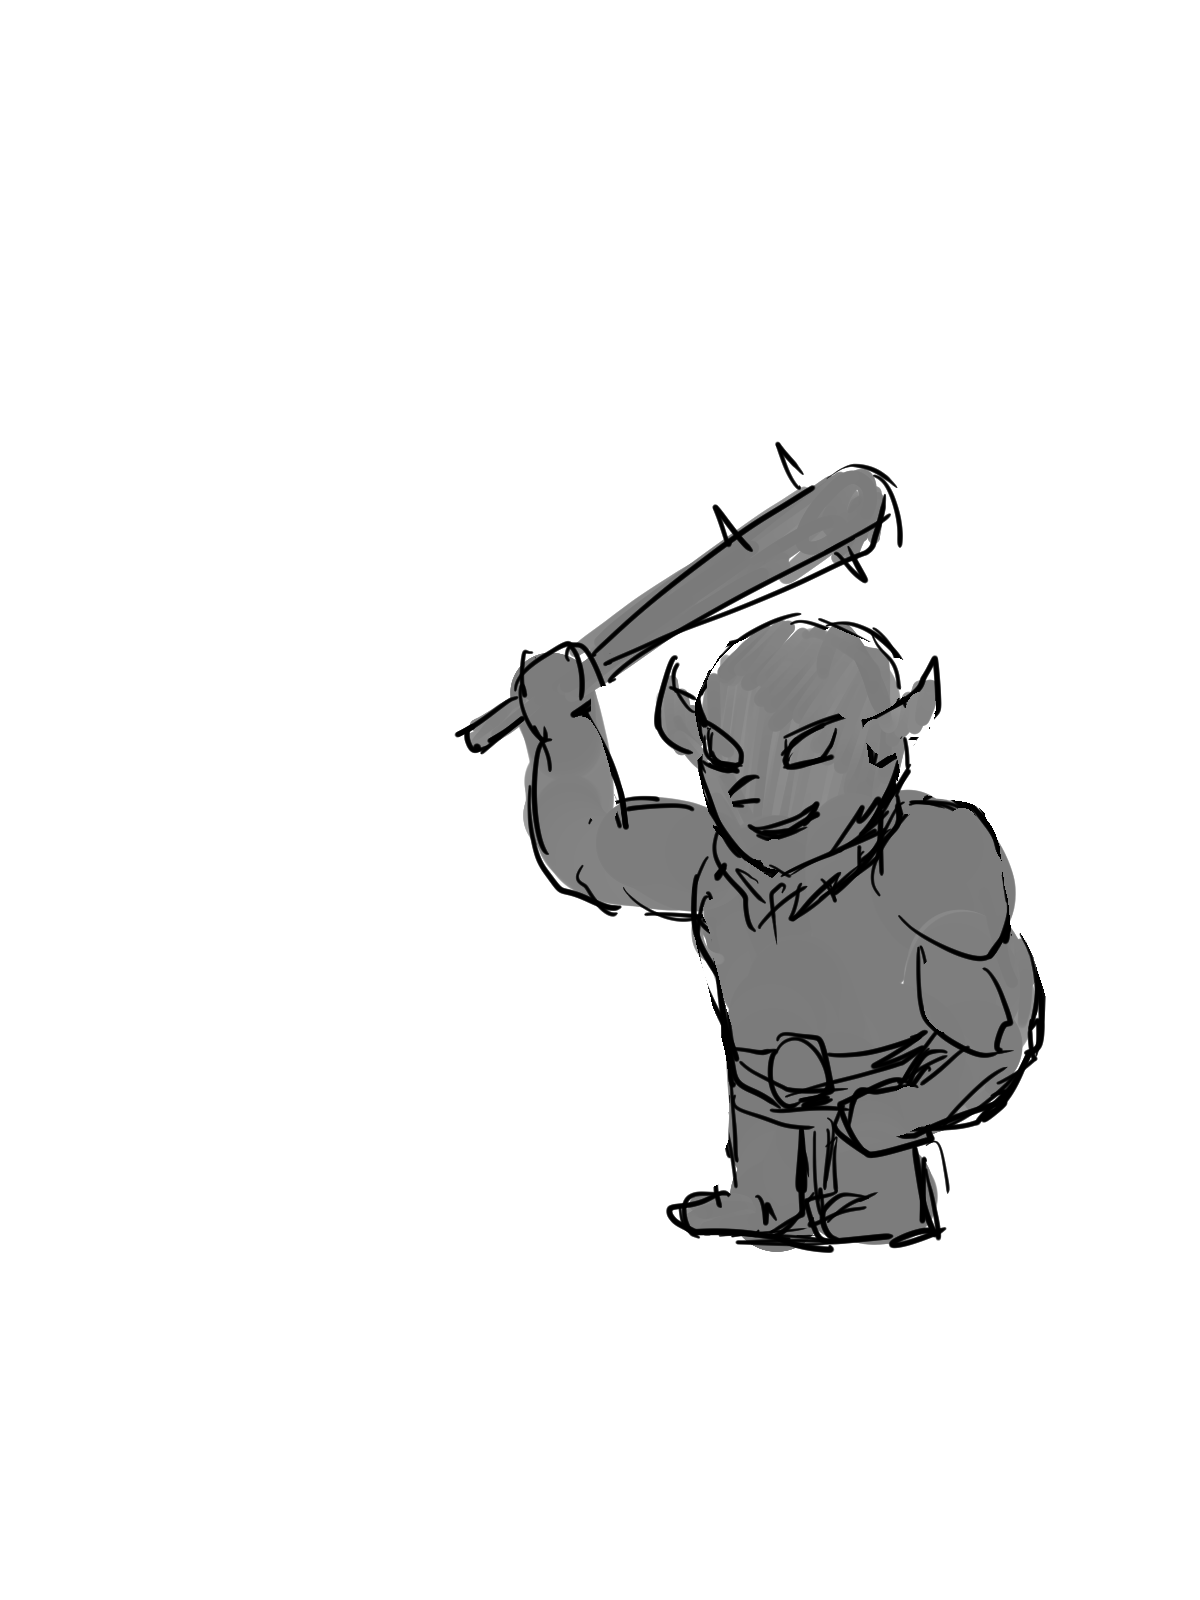
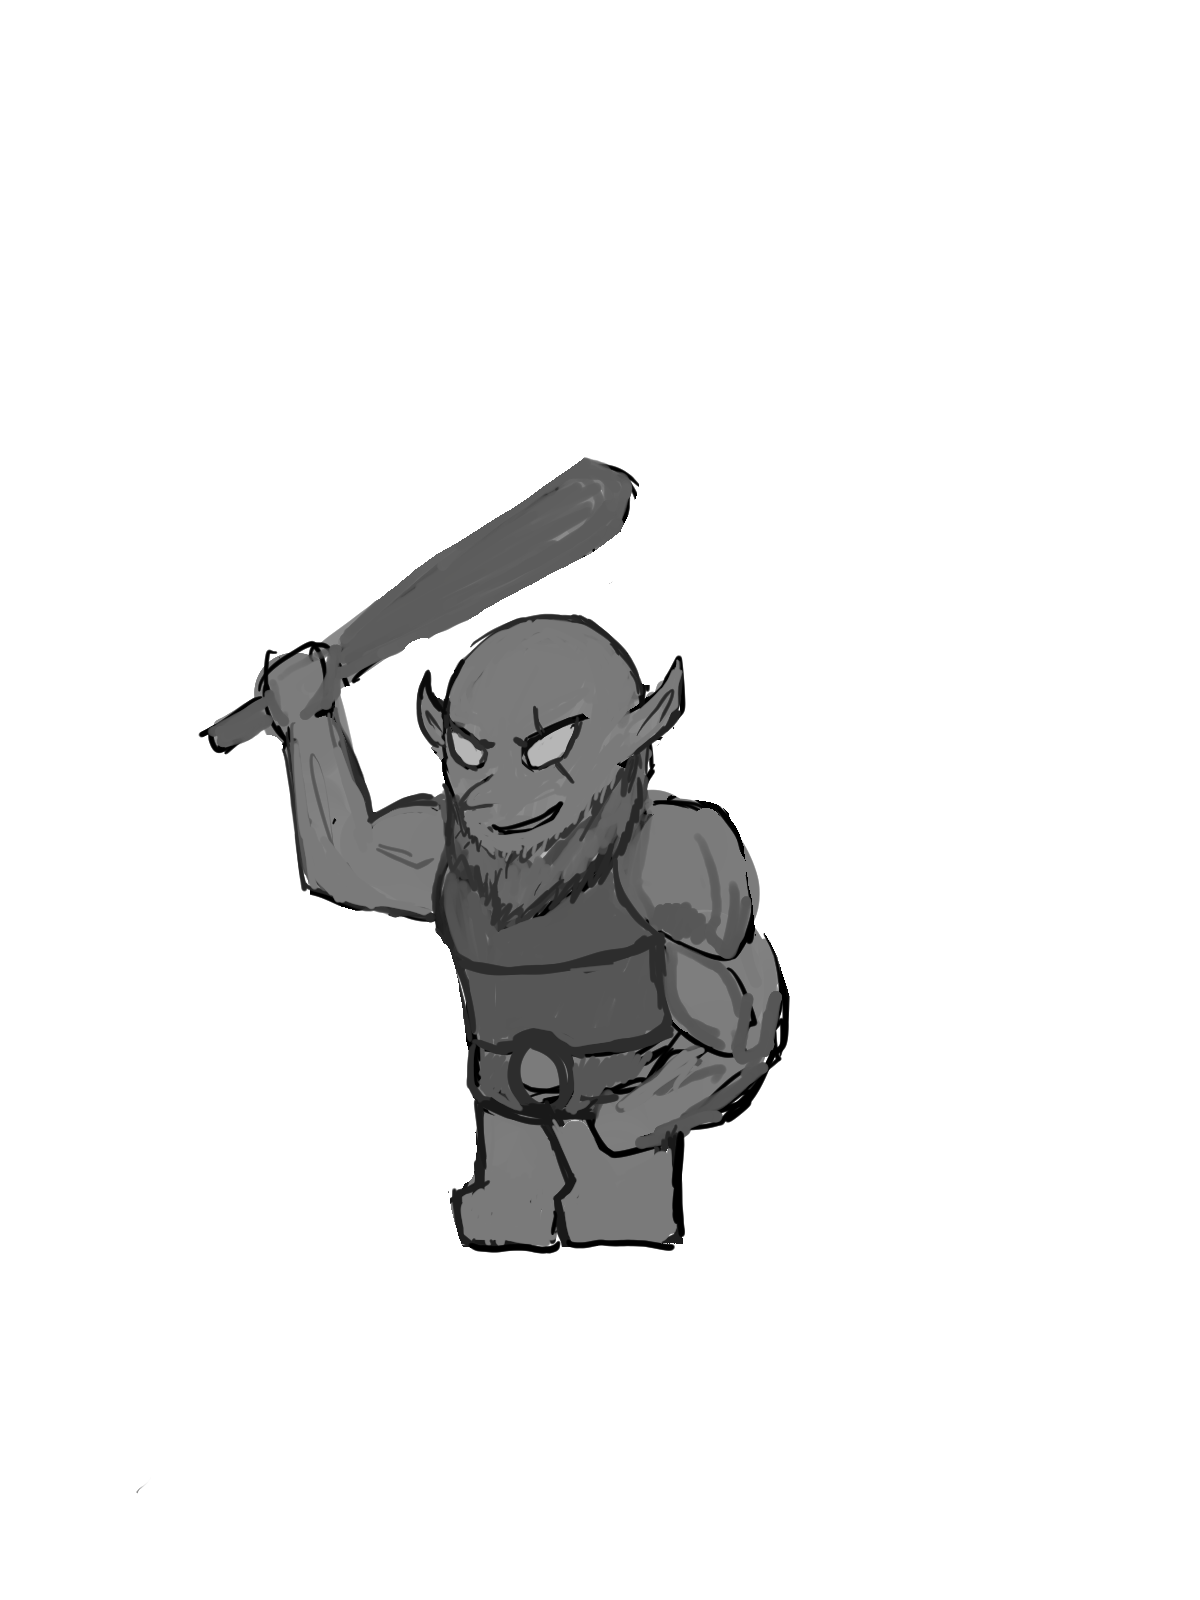
new sprites, disable trap spawn when queen appear

Changed region(s): [[0.1542, 0.2812, 0.8942, 0.7812]]

diff --git a/src/KingMoveManager.cpp b/src/KingMoveManager.cpp
@@ -63,6 +63,7 @@ void KingMoveManager::OnKingDamaged() {
 void KingMoveManager::Update() {
 	//Print(_invisibleCount);
 	//Print(_kingHP);
+	//Console << _timeFramePerSec;
 	if (_invisibleCount > 0)
 		_invisibleCount -= Scene::DeltaTime();
 	if (!fallen && _timeFramePerSec > 0)
@@ -83,7 +84,7 @@ void KingMoveManager::Draw() {
 	if(!fallen)
 			king.scaled(0.25).drawAt(_kingXPosition, Scene::Height() / 2);
 	else false;
-	queen.scaled(0.75).drawAt((_timeFramePerSec * _scrollSpeedPerSec) + _kingXPosition + _kingPosOffset, Scene::Height() / 2);
+	queen.scaled(0.25).drawAt((_timeFramePerSec * _scrollSpeedPerSec) + _kingXPosition + _kingPosOffset, Scene::Height() / 2);
 	_gaugeBackImage.draw();
 	_hpGaugebackImage.draw();
 	RectF{ _gaugeBackImage.x + 10, _gaugeBackImage.y + 10, (_gaugeBackImage.w - 20) * (_timeFramePerSec / _kingMoveTimeSec), _gaugeBackImage.h - 20 }.draw(Palette::Blue);

diff --git a/src/TrapManager.h b/src/TrapManager.h
@@ -12,7 +12,7 @@ private:
 		Vec2 spawnPos{ 1300, 400 };
 		Vec2 currentPos{ 900, 0 };
 		Circle collider{ 900, 0, 40 };
-		float trapScale = 0.1f;
+		float trapScale = 0.2f;
 
 		int state = 0;	//0 - normal, 1 - king fell in, 2 - enemy fell in, 3 - disabled
 		bool activated = false;
@@ -34,6 +34,7 @@ private:
 
 		void TrapDraw(const Array<Texture>& textures) {
 			textures[state].scaled(trapScale).drawAt(currentPos);
+			//collider.draw();
 		}
 	};
 
@@ -41,6 +42,8 @@ private:
 	const float spawnTimeMax = 8.0f;
 	float spawnTime = 2.0f;
 	float spawnTimer = 0.0f;
+
+	float spawnStopTime = 35.0f;
 
 	void SpawnTrap();	// add a trap to array
 	void UpdateTraps(const double& deltaTime, KingMoveManager& king, Player& player, std::vector<Enemy*>& enemyArr);	// update individual traps

diff --git a/src/TrapManager.cpp b/src/TrapManager.cpp
@@ -5,10 +5,10 @@
 TrapManager::TrapManager() {
 	// Initialize speed inside the constructor
 	holeTexArr = {
-		Texture{ U"Assets/HoleP.png"},
-		Texture{ U"Assets/HoleKP.png" },
-		Texture{ U"Assets/HoleEP.png" },
-		Texture{ U"Assets/HoleP.png"}
+		Texture{ U"Assets/hole.png"},
+		Texture{ U"Assets/holeKing.png" },
+		Texture{ U"Assets/HoleEnemy.png" },
+		Texture{ U"Assets/hole.png"}
 	};
 	Console << U"Called";
 }
@@ -27,7 +27,7 @@ void TrapManager::Update(KingMoveManager& king, Player& player, std::vector<Enem
 
 	UpdateTraps(deltaTime, king, player, enemyArr);
 
-	if (isSpawning) {
+	if (isSpawning && king._timeFramePerSec > spawnStopTime) {
 		if (spawnTimer < spawnTime) {
 			spawnTimer += deltaTime;
 		}

diff --git a/src/KingMoveManager.h b/src/KingMoveManager.h
@@ -4,15 +4,16 @@
 
 class KingMoveManager
 {
+	public:
+		// 現在の残り移動時間
+		double _timeFramePerSec;
+		
 	private:
 		// 王の移動速度
 		double _scrollSpeedPerSec;
 
 		// 王の総移動時間
 		double _kingMoveTimeSec;
-
-		// 現在の残り移動時間
-		double _timeFramePerSec;
 
 		// 王のX座標
 		double _kingXPosition;
@@ -34,7 +35,7 @@ class KingMoveManager
 
 		const Texture king{U"Assets/king.png"};
 
-		const Texture queen{ U"👩"_emoji };
+		const Texture queen{U"Assets/queen.png" };
 
 		const Rect _gaugeBackImage{ 200, 50, 800, 50 };
 

diff --git a/src/Game.h b/src/Game.h
@@ -29,6 +29,7 @@ private:
 
 	Stopwatch m_stopwatch;
 	const Texture kingTexture{U"Assets/king.png" };
+	const Texture queenTexture{U"Assets/queen.png" };
 	const Texture knightTexture{U"Assets/knight.png"};
 	const Texture grassTexture{U"Assets/grass.png"};
 	const Texture enemyTexture{U"Assets/enemy.png"};
